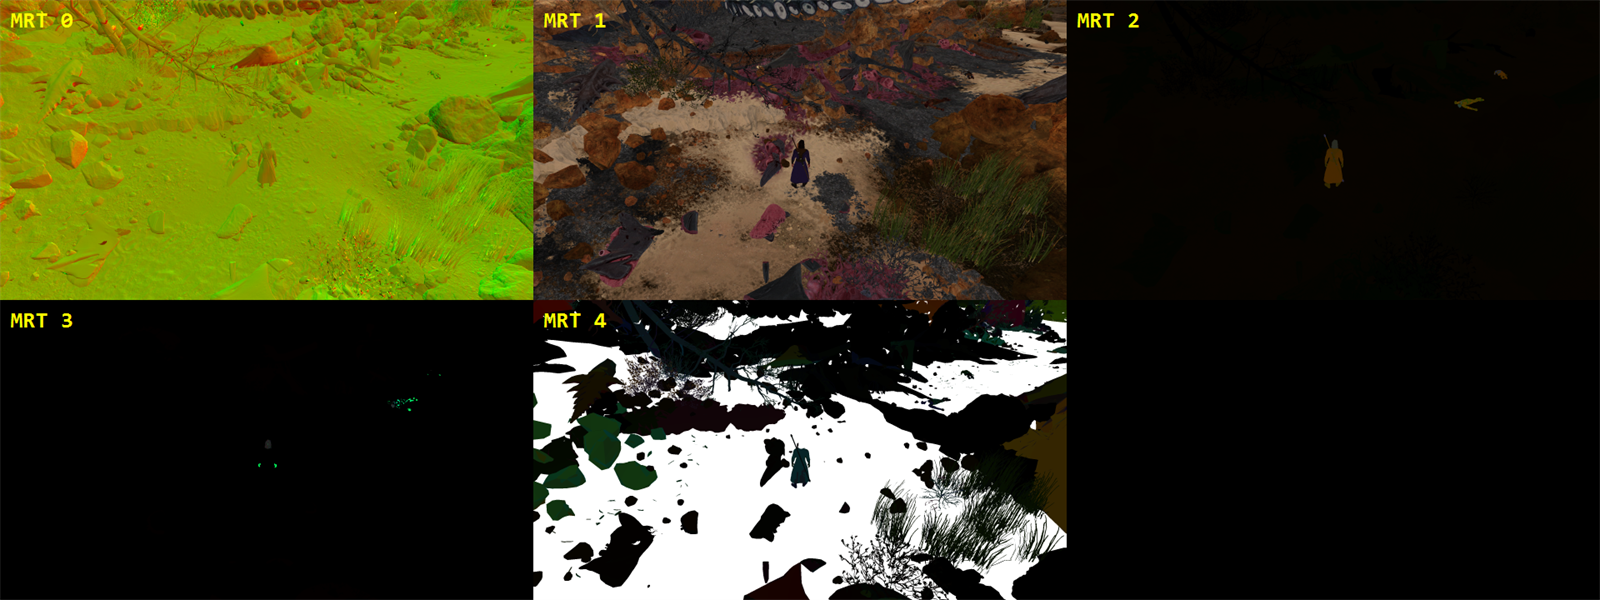
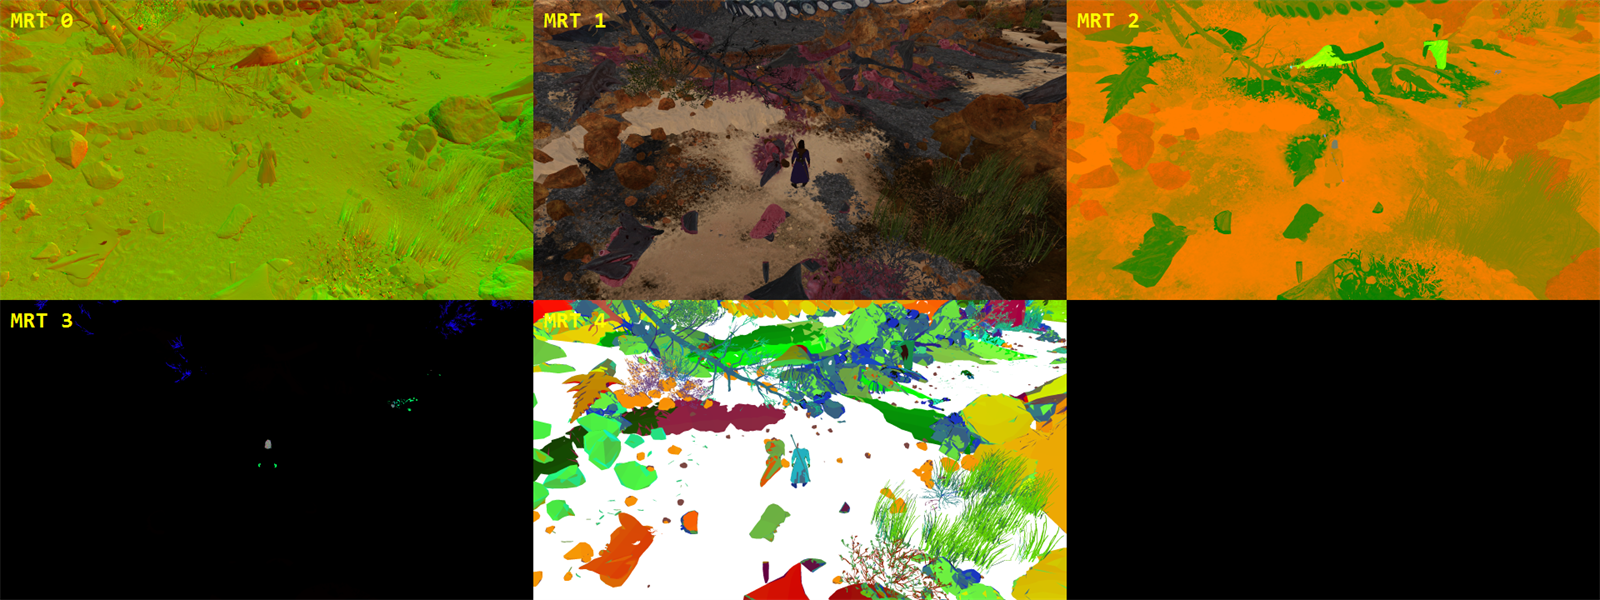
feat(blog): add second capture; fix alpha-composited G-buffer images
Analyses Capture_2 (Emerald Grove) alongside the Ravaged Beach frame so
architectural findings can be separated from scene coincidence.

Invariants held exactly across two very different scenes: 6 G-buffer
attachments, 5 Fill Stencil draws at refs 1/2/4/8/16, 19 half-res draws at
1280x720, 14 lighting shader variations, 21 lighting and 3 post
dispatches, and terrain patches at 49152 indices to the byte. Scene
numbers moved a lot: 2601 to 3723 draws, 48 to 110 skinning dispatches,
2.62M to 4.65M visible triangles.

The Grove tile counts sum to 57599 against 57600 on-screen tiles - exactly
one tile unaccounted for, where the beach partitioned perfectly. Recorded
as an open question rather than explained away.

Correction: the G-buffer contact sheets were alpha-composited. Every
target stores data in alpha and MRT2 sits at 0.031 across most of the
screen, so DrawImage blended its RGB toward black and I read it as "black
except characters" and called it emissive. Its RGB is actually bright
almost everywhere. pick-pixel and the exported PNGs agreed all along; only
the sheet was wrong. Republishes the affected images flattened to opaque,
since a browser on a dark page would composite them the same way.

MRT3 is now positively confirmed as motion vectors: the Grove also has a
static camera, but shows motion exactly on wind-animated foliage and
nowhere else - which an unused buffer could not do.

diff --git a/src/content/blog/bg3-frame-analysis.md b/src/content/blog/bg3-frame-analysis.md
@@ -25,11 +25,14 @@ nautiloid crash.
 
 **Status: VERIFIED**
 
-The capture is a 2.9 GB `.rdc` (6.07 GB of frame-capture section) taken with
-RenderDoc 1.45. Everything below was pulled with `rdc-cli` driving a source-built
-RenderDoc 1.45 Python module — matching the capture's serialise version was necessary,
-since an earlier 1.41 build refused the file outright ("Vulkan capture is incompatible
-version 32, newest supported by this build is 23").
+Two captures, both Vulkan, taken with RenderDoc 1.45: the **Ravaged Beach** in Act 1
+(2.68 GB) and the **Emerald Grove** (3.03 GB). The walkthrough below follows the beach
+frame; the Grove is used to separate architecture from scene-specific coincidence.
+
+Everything here was pulled with `rdc-cli` driving a source-built RenderDoc 1.45 Python
+module — matching the capture's serialise version was necessary, since an earlier 1.41
+build refused the file outright ("Vulkan capture is incompatible version 32, newest
+supported by this build is 23").
 
 Two things make BG3 harder to read than a typical sample:
 
@@ -182,17 +185,42 @@ Output float4* _11 : [[Location(4)]];
 ```
 
 ![The five G-buffer targets](/img/blog/bg3/07-gbuffer-sheet.png)
-*All five colour targets at the end of the G-buffer pass.*
+*All five colour targets at the end of the G-buffer pass, Ravaged Beach.*
+
+**A warning about looking at these buffers.** Every one of them stores real data in its
+alpha channel, and on several the alpha is very low — MRT2 sits at `a = 0.031` (8/255)
+across most of the screen. If you composite such an image, or simply display it on a dark
+page, the viewer blends the RGB toward the background and you see almost nothing. My first
+pass at this misread MRT2 as "black except the characters" for exactly that reason. Every
+G-buffer image here has alpha forced to 1 so you are seeing the stored RGB.
+
+To separate what is architectural from what is scene-specific, here is the same G-buffer
+from a second capture — the Emerald Grove, with dense foliage, water and a four-person
+party instead of open sand:
+
+![The same five targets in the Emerald Grove](/img/blog/bg3/07-gbuffer-sheet-grove.png)
+*The same five colour targets in a second capture, Emerald Grove.*
 
 | Target | Contents | Confidence |
 |---|---|---|
-| MRT0 | Encoded normals, 2-channel | VERIFIED — B is exactly 0.0 and A exactly 1.0 at every sampled pixel; only R and G vary, which is why it renders yellow-green |
-| MRT1 | Albedo, with data in alpha | VERIFIED as albedo; alpha varies (1.0 sand, 0.62 rock, 0.94 character) but its meaning is unconfirmed |
-| MRT2 | Packed material data | INFERRED — G sits pinned at 0.498 (=127/255) across every sample |
-| MRT3 | Motion vectors | VERIFIED as all-zero, consistent with a static camera; the buffer's existence is what feeds TAA |
-| MRT4 | Packed material data | INFERRED |
+| MRT0 | Encoded normals, 2-channel | **VERIFIED** — B is exactly 0.0 and A exactly 1.0 at every sampled pixel in both captures; only R and G vary, which is why it renders yellow-green |
+| MRT1 | Albedo, with data in alpha | **VERIFIED** as albedo; alpha varies per material (1.00 / 0.85 / 0.96 across character, stone, dirt) but its meaning is unconfirmed |
+| MRT2 | Per-material scalar parameters | **PARTIAL** — G is pinned at exactly 0.498 (127/255) in *every* sample across both captures, so it is either unused or a signed zero. R varies with surface (0.95 stone, 0.95 dirt, 0.64 foliage), which reads like roughness. B is 0 except on some characters |
+| MRT3 | Motion vectors | **VERIFIED** — see below |
+| MRT4 | Per-material colour parameter | **INFERRED** — white (1,1,1,1) on stone, dirt and characters; strongly coloured on vegetation (foliage samples 0.37, 0.56, 0.03). Reads like a translucency or transmission tint with white as the opaque default, though the vivid per-object colours on rocks in the beach capture argue for something more like a material tint |
 
-> TODO: pixel-debug a G-buffer draw and trace the writes to resolve MRT2 and MRT4.
+### The second capture confirms MRT3
+
+In the Ravaged Beach frame MRT3 is all zeros, which I put down to a static camera. That was
+consistent with motion vectors but didn't prove them — an unused buffer looks identical.
+
+The Grove settles it. The camera is static there too, yet MRT3 is **not** empty: it has
+motion precisely on the **wind-animated foliage** — blue across the tree canopy, purple on
+individual plants — and nowhere else. Vegetation is the only thing in the scene that moves
+while the camera doesn't. That is motion vectors, and it is what feeds the TAA in this
+capture's name.
+
+> TODO: MRT2's B/A channels and MRT4's exact meaning still need a shader trace to confirm.
 
 ![G-buffer normals](/img/blog/bg3/07-gbuffer-mrt0-normals.png)
 *MRT0 — two-channel encoded normals. The green-yellow cast is the empty blue channel.*
@@ -650,6 +678,75 @@ UniformConstant Image<float, 2D>[40]* _17 : [[DescriptorSet(1), Binding(8)]];
 Forty possible surface types with three texture maps each — of which five were present in
 this frame. Note these are **fixed-size** arrays, not unbounded ones; more on that
 distinction below.
+
+## A Second Capture
+
+**Status: VERIFIED**
+
+Everything above comes from one frame, which is a weakness: you cannot tell an
+architectural property from a coincidence of one scene. So I took a second capture in a
+deliberately different place — the **Emerald Grove**, dense with foliage, water and a
+four-person party, instead of open sand with a single character.
+
+![The second capture](/img/blog/bg3/00-final-frame-grove.png)
+*The second analysed frame: Emerald Grove, Sacred Pool.*
+
+The scene-dependent numbers move a great deal:
+
+| | Ravaged Beach | Emerald Grove |
+|---|---|---|
+| Draw calls | 2,601 | **3,723** |
+| Total dispatches | 78 | **139** |
+| Skinning dispatches | 48 | **110** |
+| Visible geometry | 2.62M tris | **4.65M tris** |
+| Shadow geometry | 9.4M tris | **7.12M tris** |
+
+Note that the Grove has **more visible geometry but fewer shadow triangles**. It's an
+enclosed space, so the cascades cover far less distant terrain — the beach's open vista is
+what made its shadow cost so lopsided.
+
+The structural numbers do not move at all:
+
+| | Ravaged Beach | Emerald Grove |
+|---|---|---|
+| Resolution | 2560×1440 | 2560×1440 |
+| G-buffer attachments | 6 | 6 |
+| Fill Stencil draws | 5, refs 1/2/4/8/16 | **5, refs 1/2/4/8/16** |
+| Half-res chain | 19 draws @ 1280×720 | **19 draws @ 1280×720** |
+| Lighting shader variations | 14 indirect dispatches | **14 indirect dispatches** |
+| Lighting block | 21 dispatches | **21 dispatches** |
+| Post-processing block | 3 dispatches | **3 dispatches** |
+| Terrain patch | 49,152 indices | **49,152 indices** |
+
+The terrain figure is the one I'd point at. A completely different landscape, different
+patch counts, different instance counts per draw — and the index count per patch is
+identical to the byte, because the patch mesh is a fixed template and only the heightfield
+changes. Likewise the Fill Stencil pass runs its five draws in the Grove, where little or
+nothing is fading, confirming that the Vulkan fallback is paid unconditionally every frame.
+
+### One tile short
+
+The tile-classified lighting gave the sharpest result. Fourteen indirect dispatches again,
+and the group counts are:
+
+```
+48763, 2, 14, 650, 160, 8, 42, 115, 7551, 22, 102, 0, 0, 170
+```
+
+That sums to **57,599**. The screen is 57,600 tiles. In the beach frame the counts summed
+to exactly 57,600 — a perfect partition. Here, **exactly one tile is unaccounted for**.
+
+I don't yet know why. A single tile needing more shading models than any of the 14
+combinations covers would explain it, as would a tile that needs no shading at all. It is
+too precise to be noise, and it is the kind of detail a single capture could never have
+surfaced.
+
+The distribution also shifts hard. On the beach one variation covered 95.7% of the screen.
+In the Grove the largest covers 84.7% and a second takes 13.1%, with only two variations
+idle instead of six — exactly what you'd expect when sand and rock give way to foliage,
+water, skin and stone.
+
+> TODO: identify the missing tile.
 
 ## A DirectX 11 Renderer Speaking Vulkan
 

diff --git a/docs/bg3-study/ledger.md b/docs/bg3-study/ledger.md
@@ -169,7 +169,62 @@ Worth re-checking against a DX11 capture if one is ever taken: D3D11 has no
 `SV_StencilRef` either (it arrived in D3D11.3/12), so both shipped backends may be on the
 fallback.
 
+## Second capture
+
+`Capture_2_Vulkan_TAA.rdc` (3.03 GB) — **Emerald Grove, Sacred Pool**. Dense foliage,
+water, four-person party, green volumetric. Deliberately chosen to contrast with the
+Ravaged Beach so architectural findings can be separated from scene coincidence.
+
+4067 events, 3723 draws, 139 dispatches, 2560×1440. G-buffer pass is EID 3661–7029.
+
+**Invariants that held** (strong evidence these are architectural):
+
+| Property | Beach | Grove |
+|---|---|---|
+| G-buffer attachments | 6 | 6 |
+| Fill Stencil | 5 draws, refs 1/2/4/8/16 | identical |
+| Half-res chain | 19 draws @ 1280×720 | identical |
+| Lighting variations | 14 indirect dispatches | 14 |
+| Lighting / post blocks | 21 / 3 dispatches | 21 / 3 |
+| Terrain patch | 49152 indices | 49152 |
+
+**Scene-dependent:** draws 2601→3723, dispatches 78→139, skinning 48→110, visible geometry
+2.62M→4.65M tris, shadow geometry 9.4M→7.12M (Grove is enclosed, cascades cover less
+distant terrain).
+
+**New open question — the missing tile.** Grove indirect group counts
+`48763, 2, 14, 650, 160, 8, 42, 115, 7551, 22, 102, 0, 0, 170` sum to **57599**, one short
+of the 57600 on-screen 8×8 tiles. The beach frame partitioned exactly. Too precise to be
+noise. Candidate explanations: a tile needing more shading models than any of the 14
+combinations covers, or a tile needing none.
+
+**Also weakened:** the 8192² atlas inference. In the Grove the equivalent
+`vkCmdBeginRenderPass(Load)` pass is 12 draws / 112 tris at **1280×720**, not 8192². The
+draw and triangle counts match the beach's 13 draws / 109 tris, but the target size does
+not. Downgrade any claim that this is a fixed glyph atlas.
+
 ## Corrections
+
+**2026-08-15 — G-buffer contact sheets were alpha-composited and misled me.** Every
+G-buffer target stores data in alpha, and on MRT2 that alpha is 0.031 (8/255) across most
+of the screen. Compositing with `Graphics.DrawImage` blended the RGB toward black, so MRT2
+appeared "black except the characters" and was read as an emissive/skin mask. It is
+nothing of the kind — its RGB is bright almost everywhere (R ≈ 0.95 on stone). `pick-pixel`
+and the exported PNG agreed exactly all along; only the *sheet* was wrong.
+
+Fixed by forcing alpha to 1 via a `ColorMatrix` when compositing, and by republishing the
+affected images (`07-gbuffer-sheet`, `07-gbuffer-mrt0-normals`, `07-gbuffer-mrt1-albedo`).
+The same trap applies in the browser: a PNG with low alpha displayed on a dark page is
+composited by the viewer. **All published buffer visualisations must be flattened to
+opaque.** MRT1's alpha is below 1 on many materials, so it was affected too.
+
+Lesson: when a numeric sample and a visualisation disagree, suspect the visualisation
+first — it has more machinery between the data and the eye.
+
+**2026-08-15 — MRT3 is confirmed motion vectors.** Previously "VERIFIED as all-zero,
+consistent with a static camera", which was weak: an unused buffer is also all-zero. The
+Grove has a static camera too but MRT3 is *not* empty there — motion appears exactly on
+wind-animated foliage and nowhere else. That is a positive confirmation.
 
 **2026-08-07 — the 14 indirect dispatches are lighting, not VFX.** Originally described as
 "GPU-driven effects / VFX simulation" on the basis of position in the frame and varying
